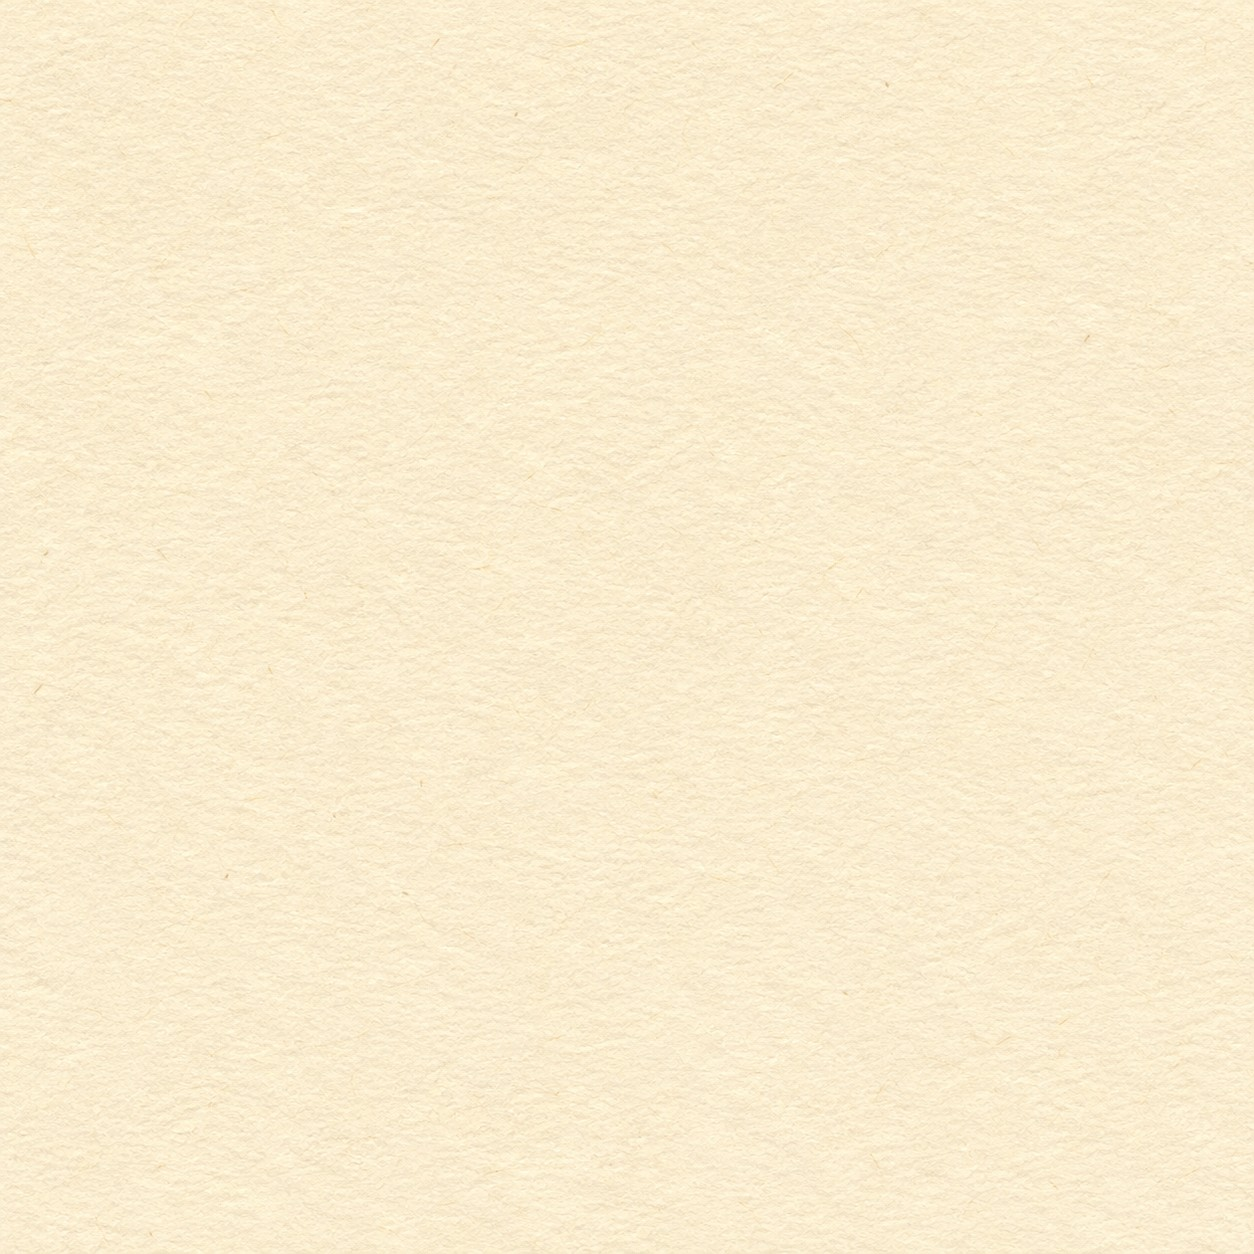
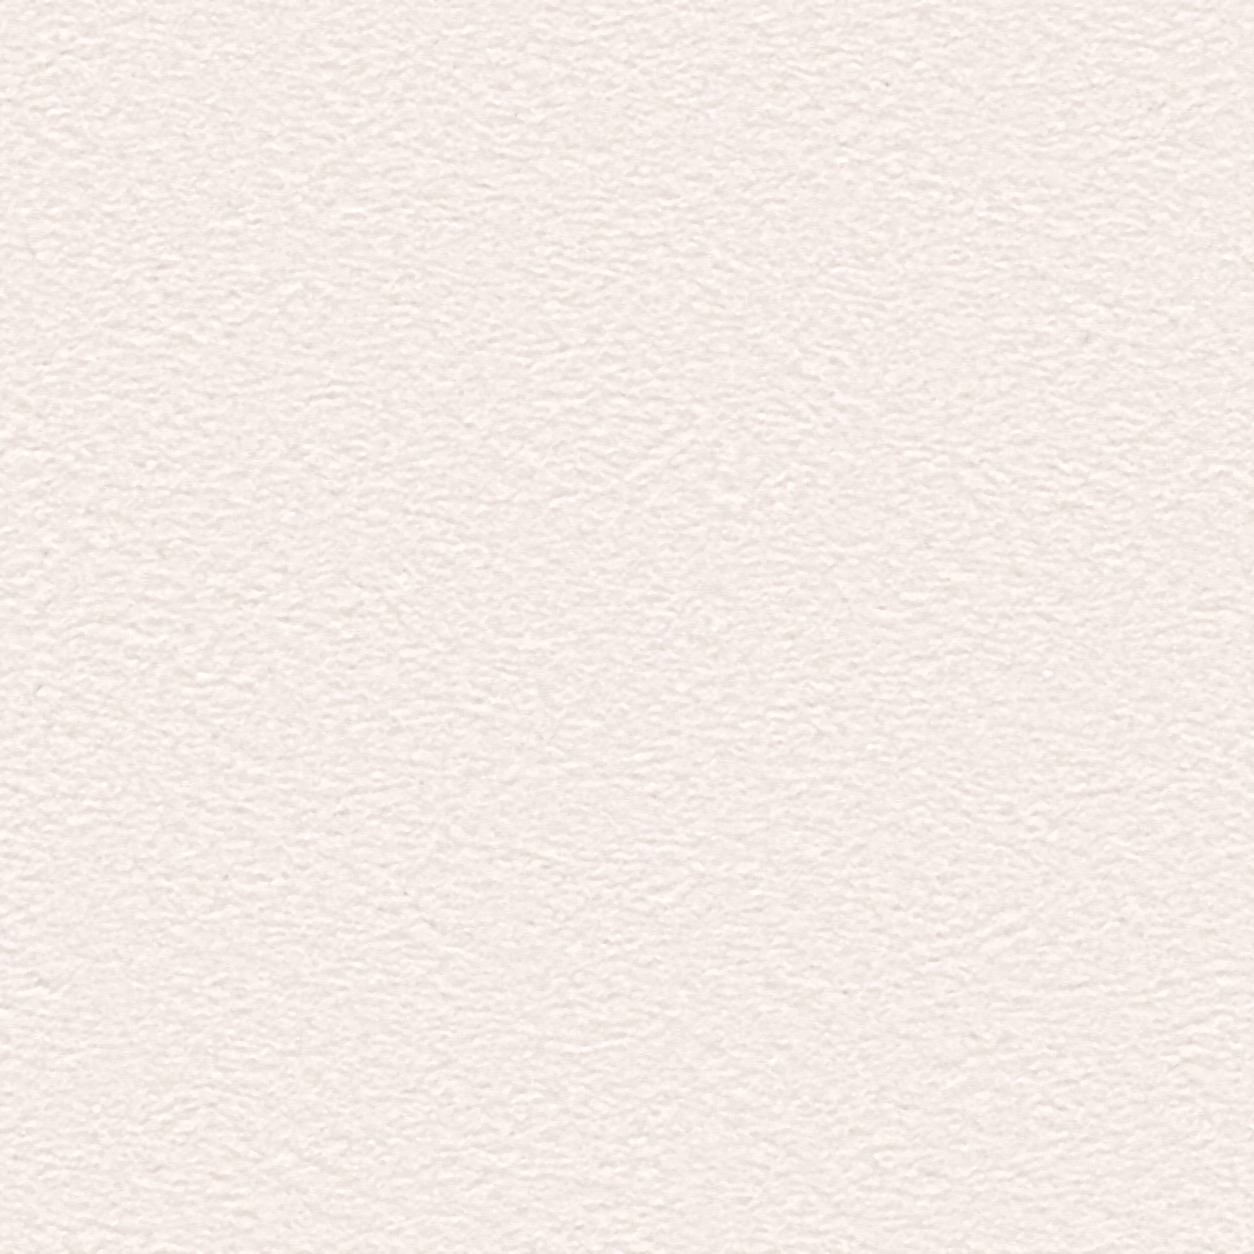
Проба 3: свет на всю строку и затухает кверху, без полос по бокам и колец, чистая розоватая бумага, стол как в конструкторе
Claude-Session: https://claude.ai/code/session_01523ibQ4Bpb3TawEG9d2zYP

diff --git a/proto/lamp3/index.html b/proto/lamp3/index.html
@@ -11,14 +11,98 @@
 @font-face{font-family:"SignThatS";src:url("SignThatS.otf") format("opentype");font-display:swap}
 *{box-sizing:border-box}
 html,body{margin:0;height:100%;overflow:hidden;background:#0b0604;color:#f2e0c2;font-family:Georgia,serif}
-canvas#gl{position:fixed;inset:0;width:100%;height:100%;display:block}
-.sheet{position:fixed;pointer-events:none}
+/* стол: тот же ночной туаль, что в конструкторе (слои из index.html) */
+.knight{position:fixed;inset:0;overflow:hidden;pointer-events:none;z-index:0}
+.knight>div{position:absolute;inset:0;pointer-events:none}
+.knight .night-base{
+  z-index:1;
+  background:linear-gradient(180deg,#211006 0%,#1b0e06 36%,#150a04 72%,#0e0703 100%);
+}
+.knight .night-artwork{
+  z-index:2;
+  background-image:url("toile-night.png"),url("https://static.tildacdn.com/tild3564-6631-4539-a265-316165616139/photo.png"),url("family-toile.webp");
+  background-repeat:no-repeat;
+  background-position:center center;
+  background-size:cover;
+  filter:brightness(.40) contrast(2.0) saturate(.58) sepia(.24);
+}
+.knight .night-main{
+  z-index:3;
+  inset:-14% -12% -16% -14%;
+  background:
+    radial-gradient(ellipse 66% 60% at 49% 45%,
+      rgba(236,168,91,.66) 0%,
+      rgba(207,130,55,.55) 18%,
+      rgba(164,88,27,.42) 38%,
+      rgba(111,51,15,.27) 58%,
+      rgba(62,27,9,.12) 75%,
+      transparent 91%),
+    radial-gradient(ellipse 80% 72% at 52% 49%,
+      rgba(142,70,20,.28) 0%,
+      rgba(101,45,13,.20) 42%,
+      rgba(58,26,9,.09) 68%,
+      transparent 90%);
+  filter:blur(54px);
+}
+.knight .night-warm{
+  z-index:4;
+  inset:-12% -8% -10% -12%;
+  background:
+    radial-gradient(ellipse 48% 44% at 41% 36%,
+      rgba(244,187,112,.72) 0%,
+      rgba(225,151,71,.62) 16%,
+      rgba(190,111,39,.48) 34%,
+      rgba(139,68,19,.31) 52%,
+      rgba(82,37,11,.14) 70%,
+      transparent 88%),
+    radial-gradient(ellipse 60% 54% at 44% 39%,
+      rgba(199,122,45,.24) 0%,
+      rgba(135,65,18,.16) 44%,
+      rgba(68,30,9,.055) 72%,
+      transparent 92%);
+  filter:blur(62px);
+}
+.knight .night-shadow{
+  z-index:5;
+  inset:-8% -6% -4% -8%;
+  background:
+    radial-gradient(ellipse 38% 34% at 18% 10%,
+      rgba(0,0,0,.72) 0%,
+      rgba(0,0,0,.46) 26%,
+      rgba(0,0,0,.22) 50%,
+      transparent 72%),
+    linear-gradient(135deg,rgba(0,0,0,.28) 0%,rgba(0,0,0,.16) 12%,rgba(0,0,0,.05) 24%,transparent 38%);
+  mix-blend-mode:multiply;
+}
+.knight .night-artwork-ink{
+  z-index:6;
+  background-image:url("toile-night.png"),url("https://static.tildacdn.com/tild3564-6631-4539-a265-316165616139/photo.png"),url("family-toile.webp");
+  background-repeat:no-repeat;
+  background-position:center center;
+  background-size:cover;
+  filter:grayscale(.08) brightness(.92) contrast(1.40) saturate(.36) sepia(.12);
+  mix-blend-mode:multiply;
+}
+.knight .night-vignette{
+  z-index:7;
+  inset:-6%;
+  background:
+    radial-gradient(circle at 0% 0%,rgba(0,0,0,.70) 0%,rgba(0,0,0,.34) 18%,transparent 40%),
+    radial-gradient(circle at 100% 0%,rgba(0,0,0,.76) 0%,rgba(0,0,0,.38) 19%,transparent 42%),
+    radial-gradient(circle at 0% 100%,rgba(0,0,0,.78) 0%,rgba(0,0,0,.40) 20%,transparent 43%),
+    radial-gradient(circle at 100% 100%,rgba(0,0,0,.84) 0%,rgba(0,0,0,.46) 20%,transparent 44%),
+    radial-gradient(ellipse 94% 86% at 46% 43%,transparent 40%,rgba(0,0,0,.045) 57%,rgba(0,0,0,.13) 70%,rgba(0,0,0,.28) 84%,rgba(0,0,0,.54) 100%);
+}
+.knight .night-base{opacity:1}.knight .night-artwork{opacity:.54}.knight .night-main{opacity:.88;filter:blur(56px)}.knight .night-warm{opacity:.9;filter:blur(66px)}
+.knight .night-shadow{opacity:.78}.knight .night-artwork-ink{opacity:.09}.knight .night-vignette{opacity:1}
+canvas#gl{z-index:1;position:fixed;inset:0;width:100%;height:100%;display:block}
+.sheet{position:fixed;pointer-events:none;z-index:2}
 .ed{position:absolute;overflow:auto;outline:none;pointer-events:auto;color:#2a1c12;font:400 14px/1.42 Georgia,"Times New Roman",serif;caret-color:#7a3e10;scrollbar-width:none;mix-blend-mode:multiply}
 .ed::-webkit-scrollbar{display:none}
 .ed p{margin:0 0 .7em}
 .ed::before,.ed::after{content:"";display:block}
 body.mono .ed{font:400 14px/1.5 "Courier New",Courier,monospace;letter-spacing:.02em}
-.car{position:fixed;left:0;top:0;width:0;height:0;pointer-events:none;transition:opacity .6s}
+.car{z-index:3;position:fixed;left:0;top:0;width:0;height:0;pointer-events:none;transition:opacity .6s}
 .car i{position:absolute;left:-34px;top:8px;width:68px;height:22px;border-radius:11px;background:linear-gradient(180deg,#2e2219,#140d08);box-shadow:0 0 0 1px rgba(214,150,96,.35),0 8px 14px rgba(0,0,0,.6)}
 .car i::before,.car i::after{content:"";position:absolute;top:8px;width:6px;height:6px;border-radius:50%;background:#ffb35c;box-shadow:0 0 7px #ff9a30}
 .car i::before{left:20px}.car i::after{left:31px;background:#ff7a2a}
@@ -34,6 +118,7 @@ body:not(.m-type) .car{opacity:0}
 </style>
 </head>
 <body class="m-type">
+<div class="knight"><div class="night-base"></div><div class="night-artwork"></div><div class="night-main"></div><div class="night-warm"></div><div class="night-shadow"></div><div class="night-artwork-ink"></div><div class="night-vignette"></div></div>
 <canvas id="gl"></canvas>
 <div class="hint">Проба 3 (настоящий свет): печатайте — прибор едет под строкой, свет скользит вдоль бумаги.</div>
 <div class="sheet" id="sheet"><div class="ed" id="ed" contenteditable="true" spellcheck="false">
@@ -54,7 +139,7 @@ body:not(.m-type) .car{opacity:0}
 <script>
 (()=>{
 const cv=document.getElementById('gl'),sheetEl=document.getElementById('sheet'),ed=document.getElementById('ed'),car=document.getElementById('car');
-let R;try{R=new THREE.WebGLRenderer({canvas:cv,antialias:true});}catch(e){document.getElementById('nogl').style.display='grid';return;}
+let R;try{R=new THREE.WebGLRenderer({canvas:cv,antialias:true,alpha:true});R.setClearColor(0,0);}catch(e){document.getElementById('nogl').style.display='grid';return;}
 R.setPixelRatio(Math.min(2,devicePixelRatio||1));
 const scene=new THREE.Scene(),cam=new THREE.OrthographicCamera(0,1,1,0,-10,10);
 
@@ -83,9 +168,9 @@ tCol.encoding=THREE.sRGBEncoding;[tCol,tHei].forEach(t=>{t.anisotropy=4;t.needsU
 
 // ---- the desk: the toile, a lamp from the upper left, the sheet's shadow falling right and down
 const toile=new THREE.TextureLoader().load('family-toile.webp',t=>{deskMat.uniforms.uAsp.value=t.image.width/t.image.height;});toile.encoding=THREE.sRGBEncoding;toile.anisotropy=4;
-const deskMat=new THREE.ShaderMaterial({uniforms:{uT:{value:toile},uRes:{value:new THREE.Vector2()},uS:{value:new THREE.Vector4()},uLamp:{value:1},uAsp:{value:1.5},uSrc:{value:new THREE.Vector2()},uCarOn:{value:1},uReach:{value:600}},
+const deskMat=new THREE.ShaderMaterial({transparent:true,uniforms:{uT:{value:toile},uRes:{value:new THREE.Vector2()},uS:{value:new THREE.Vector4()},uLamp:{value:1},uAsp:{value:1.5},uSrc:{value:new THREE.Vector2()},uCarOn:{value:1},uReach:{value:600},uLn:{value:new THREE.Vector3()}},
   vertexShader:'varying vec2 vP;void main(){vP=(modelMatrix*vec4(position,1.)).xy;gl_Position=projectionMatrix*modelViewMatrix*vec4(position,1.);}',
-  fragmentShader:`varying vec2 vP;uniform sampler2D uT;uniform vec2 uRes;uniform vec4 uS;uniform float uLamp;uniform float uAsp;uniform vec2 uSrc;uniform float uCarOn;uniform float uReach;
+  fragmentShader:`varying vec2 vP;uniform sampler2D uT;uniform vec2 uRes;uniform vec4 uS;uniform float uLamp;uniform float uAsp;uniform vec2 uSrc;uniform float uCarOn;uniform float uReach;uniform vec3 uLn;
     float sdBox(vec2 p,vec2 c,vec2 h){vec2 d=abs(p-c)-h;return length(max(d,0.))+min(max(d.x,d.y),0.);}
     void main(){vec2 uv=vP/uRes;float ra=uRes.x/uRes.y;if(ra>uAsp){uv.y=.5+(uv.y-.5)*uAsp/ra;}else{uv.x=.5+(uv.x-.5)*ra/uAsp;}vec3 t=texture2D(uT,uv).rgb;t=mix(vec3(dot(t,vec3(.33))),t,.7)*vec3(1.,.86,.66);
       vec2 lamp=vec2(uRes.x*.12,uRes.y*1.05);float dl=length(vP-lamp)/length(uRes);
@@ -93,10 +178,10 @@ const deskMat=new THREE.ShaderMaterial({uniforms:{uT:{value:toile},uRes:{value:n
       // the sheet's shadow: offset right and down, soft
       vec2 c=uS.xy,h=uS.zw;float sd=sdBox(vP,c+vec2(16.,-22.),h);float sh=1.-.75*(1.-smoothstep(-30.,40.,sd));
       // a little of the carriage light spills onto the desk under the sheet's bottom edge
-      vec2 dd=vP-uSrc;float ang=acos(clamp(normalize(dd+vec2(0.,.001)).y,-1.,1.));float cone=1.-smoothstep(1.1,1.56,ang);cone=cone*cone*(3.-2.*cone);
-      float spill=uCarOn*cone*smoothstep(-3.,6.,dd.y)*(.2+.8/(1.+pow(length(dd)/uReach,1.6)))*2.6;
-      vec3 col=t*(light*sh*vec3(1.,.82,.6)+spill*vec3(1.,.86,.7));
-      gl_FragColor=vec4(col,1.);}`});
+      vec2 dd=vP-uSrc;float up=vP.y-uLn.x;float sf=26.+up*.25;float wl=uLn.y-up*.7,wr=uLn.z+up*.7;
+      float spill=uCarOn*smoothstep(wl-sf,wl+sf,vP.x)*(1.-smoothstep(wr-sf,wr+sf,vP.x))*smoothstep(-6.,4.,up)*(.1+.9/(1.+pow(length(dd)/uReach,1.8)));
+      float sa=.7*(1.-smoothstep(-30.,40.,sd));float la=clamp(spill*.10,0.,.22);
+      float a=la+sa*(1.-la);gl_FragColor=vec4(vec3(1.,.8,.55)*la/max(a,.001),a);}`});
 const desk=new THREE.Mesh(new THREE.PlaneGeometry(1,1),deskMat);desk.position.z=-1;scene.add(desk);
 
 // ---- the sheet: lit by the desk lamp from the side (top-left brighter) and by the carriage light grazing along it
@@ -114,15 +199,17 @@ const sheetMat=new THREE.ShaderMaterial({uniforms:{uC:{value:tCol},uH:{value:tHe
       // the carriage light: a source just above the paper at the working line, shining up along it
       vec3 Ls=vec3(uCar.xy,9.);vec3 dv=vec3(Ls.xy-p,Ls.z);float dist=length(dv.xy);vec3 L=normalize(dv);
       vec2 dir=normalize(p-Ls.xy+vec2(0.,.001));float ang=acos(clamp(dir.y,-1.,1.));   // 0 = straight up
-      float cone=1.-smoothstep(1.1,1.56,ang);cone=cone*cone*(3.-2.*cone);
-      float above=smoothstep(-3.,5.,p.y-Ls.y);
-      float fall=.42+.58/(1.+pow(dist/(uSize.y*.5),1.5));fall*=smoothstep(0.,46.,dist)*.35+.65;
+      float yb=uLine.x-12.,up=p.y-yb,sf=24.+up*.25,wl=uLine.z-up*.7,wr=uLine.w+up*.7;
+      float fan=smoothstep(wl-sf,wl+sf,p.x)*(1.-smoothstep(wr-sf,wr+sf,p.x))*smoothstep(-6.,4.,up);
+      float above=smoothstep(-3.,5.,p.y-Ls.y);float apex=(1.-smoothstep(.45,1.05,ang))*above*(1.-smoothstep(-6.,4.,up));float cone=max(fan,apex);
+      float fall=.1+.9/(1.+pow(dist/(uSize.y*.3),1.8));fall*=smoothstep(0.,46.,dist)*.3+.7;
       float graze=max(dot(N,L),0.);float car=uCarOn*cone*above*fall*(.95+.5*graze)*(1.+uJit);
       // the working line is lit along its whole length, so what is typed can be read
-      float band=exp(-pow((p.y-uLine.x)/uLine.y,2.))*smoothstep(uLine.z-70.,uLine.z+10.,p.x)*(1.-smoothstep(uLine.w-10.,uLine.w+70.,p.x))*above;band*=.6+.4*exp(-abs(p.x-Ls.x)/260.);car=max(car,uCarOn*band*.8*(1.+uJit));
+
       vec3 c=base*(vec3(.05,.035,.025)+lamp*vec3(1.,.9,.74)*.95+car*vec3(1.0,.93,.86));
+      c+=(fract(sin(dot(gl_FragCoord.xy,vec2(12.9898,78.233)))*43758.5453)-.5)/255.*2.;
       gl_FragColor=vec4(c,1.);}`});
-new THREE.TextureLoader().load('paper.jpg',t=>{t.encoding=THREE.sRGBEncoding;t.anisotropy=4;sheetMat.uniforms.uC.value=t;const h=t.clone();h.encoding=THREE.LinearEncoding;h.needsUpdate=true;sheetMat.uniforms.uH.value=h;t.wrapS=t.wrapT=h.wrapS=h.wrapT=THREE.RepeatWrapping;sheetMat.uniforms.uTex.value.set(1.5/t.image.width,1.5/t.image.height);sheetMat.uniforms.uAmp.value=7.;sheetMat.uniforms.uRep.value.set(1,1.414);},undefined,()=>{});
+new THREE.TextureLoader().load('paper.jpg',t=>{t.encoding=THREE.sRGBEncoding;t.anisotropy=4;t.wrapS=t.wrapT=THREE.RepeatWrapping;sheetMat.uniforms.uC.value=t;sheetMat.uniforms.uRep.value.set(1,1.414);new THREE.TextureLoader().load('paper-relief.jpg',h=>{h.wrapS=h.wrapT=THREE.RepeatWrapping;h.anisotropy=4;sheetMat.uniforms.uH.value=h;sheetMat.uniforms.uTex.value.set(1.2/h.image.width,1.2/h.image.height);sheetMat.uniforms.uAmp.value=.2;});},undefined,()=>{});
 const sheet=new THREE.Mesh(new THREE.PlaneGeometry(1,1),sheetMat);scene.add(sheet);
 
 // ---- layout: the sheet as large as the window allows, A4 upright
@@ -154,7 +241,7 @@ const frame=now=>{const dt=Math.min(.05,(now-last)/1000);last=now;
   // a key strike: only the light and the carriage tremble, for a moment
   const k=Math.max(0,1-(now-jitT)/110);jit=k*(Math.sin(now*.09)*.06-.04);const dy=k*Math.sin(now*.12)*1.2;
   const lx=cur.x-SX,ly=SH-(workY()-SY)-40;
-  sheetMat.uniforms.uLine.value.set(SH-(workY()-SY)+2,22,EM,SW-EM);deskMat.uniforms.uSrc.value.set(cur.x,innerHeight-workY()-40);
+  sheetMat.uniforms.uLine.value.set(SH-(workY()-SY)+2,22,EM,SW-EM);deskMat.uniforms.uSrc.value.set(cur.x,innerHeight-workY()-40);deskMat.uniforms.uLn.value.set(innerHeight-workY()-10,SX+EM,SX+SW-EM);
   sheetMat.uniforms.uCar.value.set(lx,ly,0);sheetMat.uniforms.uJit.value=jit;
   car.style.transform=`translate(${cur.x}px,${workY()+42-dy}px)`;
   R.render(scene,cam);requestAnimationFrame(frame);};
